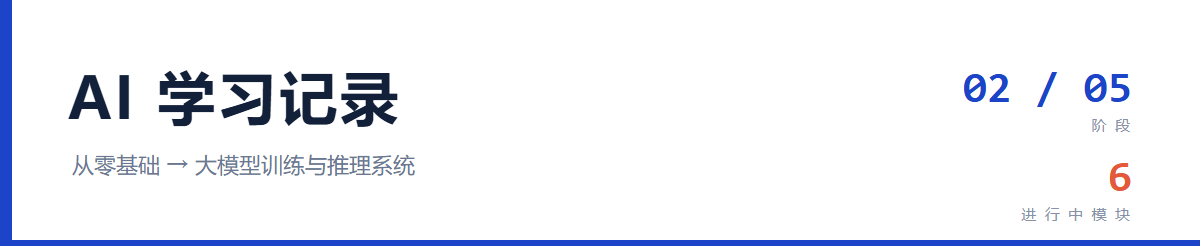
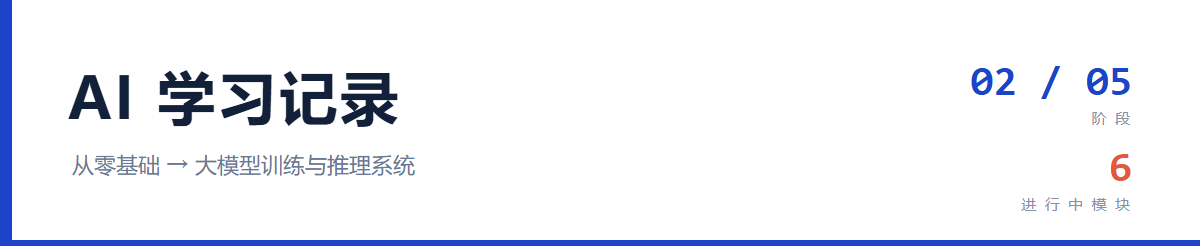
README 加📅时间线（按日期汇总所有笔记）；脚本修复渲染路径与轮询

diff --git a/tools/readme_visuals.py b/tools/readme_visuals.py
@@ -4,7 +4,7 @@
 用法：  python tools/readme_visuals.py
 改标题/数字：改下面 CFG 即可，不用重画
 """
-import pathlib, re, shutil, subprocess, sys, tempfile
+import pathlib, re, shutil, subprocess, sys, tempfile, time
 from urllib.parse import quote
 
 CFG = {
@@ -17,6 +17,12 @@ BLUE, ORANGE, GREY = "#1B44C8", "#E4593A", "#c3cad6"
 ROOT = pathlib.Path(__file__).resolve().parent.parent
 
 def find_edge():
+    for p in ("/mnt/c/Program Files (x86)/Microsoft/Edge/Application/msedge.exe",
+              "/mnt/c/Program Files/Microsoft/Edge/Application/msedge.exe",
+              "C:\\Program Files (x86)\\Microsoft\\Edge\\Application\\msedge.exe",
+              "C:\\Program Files\\Microsoft\\Edge\\Application\\msedge.exe"):
+        if pathlib.Path(p).exists():
+            return p
     for n in ("msedge.exe", "microsoft-edge", "google-chrome", "chrome"):
         p = shutil.which(n)
         if p:
@@ -34,34 +40,59 @@ def to_win(p):
         return "C:\\" + s[7:].replace("/", "\\")
     return s.replace("/", "\\")
 
-def render(html, out_png, w, h):
-    edge = find_edge()
-    if not edge:
-        print("⚠ 找不到 Edge/Chrome，跳过渲染"); return False
-    tmp = pathlib.Path(tempfile.mkdtemp())
-    f = tmp / "x.html"; f.write_text(html, encoding="utf-8")
-    out_png.parent.mkdir(parents=True, exist_ok=True)
-    subprocess.run([edge, "--headless=new", "--disable-gpu", "--hide-scrollbars",
-                    f"--window-size={w},{h}", f"--screenshot={to_win(out_png)}",
-                    to_win(f)], capture_output=True)
-    print("✓", out_png.relative_to(ROOT), out_png.stat().st_size, "bytes")
-    return out_png.exists()
-
 def parse_rows(text):
     rows = []
     for line in text.splitlines():
         if not line.startswith("| ") or "`" not in line:
             continue
-        cells = [c.strip() for c in line.strip().strip("|").split("|")]
+        cells = [c.strip() for c in line.strip("|").split("|")]
         if len(cells) < 2:
             continue
-        name, st = cells[0], cells[1]
-        for mark, v, lab, col in (("✅",1.0,"已 掌 握",BLUE),
-                                  ("🟡",0.55,"进 行 中",ORANGE),
-                                  ("⬜",0.0,"未 开 始",GREY)):
+        if len(cells) >= 5:
+            cat, name, st = cells[0], cells[1], cells[2]
+        else:
+            cat, name, st = "", cells[0], cells[1]
+        for mark, v, lab, col in (("\u2705", 1.0, "\u5df2 \u638c \u63e1", BLUE),
+                                  ("\U0001f7e1", 0.55, "\u8fdb \u884c \u4e2d", ORANGE),
+                                  ("\u2b1c", 0.0, "\u672a \u5f00 \u59cb", GREY)):
             if mark in st:
-                rows.append((name, v, lab, col)); break
+                rows.append((name, v, lab, col, cat)); break
     return rows
+
+def workdir():
+    for cand in ("/mnt/c/temp/readme_visuals", str(pathlib.Path.home() / ".cache" / "readme_visuals")):
+        p = pathlib.Path(cand)
+        try:
+            p.mkdir(parents=True, exist_ok=True)
+            return p
+        except Exception:
+            pass
+    return pathlib.Path(tempfile.gettempdir())
+
+def win_path(p):
+    s = str(p)
+    if "/mnt/c/" in s or s.startswith("/mnt/"):
+        return s.replace("/mnt/c/", "C:\\").replace("/", "\\")
+    return s
+
+def render(html, out_png, w, h):
+    edge = find_edge()
+    if not edge:
+        print("⚠ 找不到 Edge/Chrome，跳过渲染"); return False
+    tmp = workdir()
+    f = tmp / "page.html"; f.write_text(html, encoding="utf-8")
+    shot = tmp / "page.png"
+    if shot.exists(): shot.unlink()
+    subprocess.run([edge, "--headless=new", "--no-sandbox", "--disable-gpu", "--hide-scrollbars",
+                    f"--window-size={w},{h}", "--screenshot=" + win_path(shot), win_path(f)],
+                   capture_output=True)
+    for _ in range(30):                     # Edge 写盘有延迟，轮询等一下
+        if shot.exists():
+            out_png.parent.mkdir(parents=True, exist_ok=True)
+            shutil.copy(shot, out_png)
+            return True
+        time.sleep(0.2)
+    return False
 
 def banner_html(c):
     return f'''<html><head><meta charset="utf-8"><style>
@@ -81,16 +112,25 @@ h1{{margin:0;padding:58px 0 0 68px;font-size:58px;letter-spacing:3px;color:#1220
 </div></body></html>'''
 
 def progress_html(rows):
-    h = 44 + 34 + 3 + 30 + len(rows) * 52 + 40
-    body = "".join(
-        f'<div class="row"><div class="nm">{n}</div><div class="track">'
-        f'<div class="fill" style="width:{v*520:.0f}px;background:{c}"></div></div>'
-        f'<div class="st">{lab}</div></div>' for n, v, lab, c in rows)
+    h = 44 + 34 + 3 + 30 + 40
+    parts, last = [], None
+    for n, v, lab, c, cat in rows:
+        if cat and cat != last:
+            parts.append(f'<div class="cat">{cat}</div>')
+            last = cat
+            h += 42
+        parts.append(
+            f'<div class="row"><div class="nm">{n}</div><div class="track">'
+            f'<div class="fill" style="width:{v*520:.0f}px;background:{c}"></div></div>'
+            f'<div class="st">{lab}</div></div>')
+        h += 52
+    body = "".join(parts)
     html = f'''<html><head><meta charset="utf-8"><style>
 html,body{{margin:0;padding:0;font-family:"Microsoft YaHei",sans-serif;background:#fff}}
 .wrap{{width:1180px;padding:44px 44px 36px}}
 .hd{{font-size:34px;font-weight:700;color:#12203a;letter-spacing:2px}}
 .rule{{height:3px;background:{BLUE};margin:18px 0 30px;width:120px}}
+.cat{{font-size:15px;color:#8792a8;letter-spacing:2px;margin:14px 0 8px;border-left:3px solid #c3cad6;padding-left:10px}}
 .row{{display:flex;align-items:center;height:52px}}
 .nm{{width:400px;font-size:21px;color:#26314a}}
 .track{{width:520px;height:18px;background:#eef1f6;border-radius:9px;overflow:hidden}}
@@ -139,6 +179,8 @@ def nav_block():
     for name, mds in scan_dirs():
         cell = " ｜ ".join(f"[{'README' if m == 'README.md' else m[:-3][9:]}]({name}{m})" for m in mds[:6])
         lines.append(f"| `{name}` | {cell} |")
+    lines.append(timeline_block())
+    lines.append(timeline_block())
     lines += ["", "[↑ 回到顶部](#top)", "", NAV_END]
     return "\n".join(lines)
 
@@ -213,5 +255,34 @@ def refresh_badges(c):
         t = "\n".join(out)
     rm.write_text(t, encoding="utf-8")
     print("✓ 徽章已刷新（可点击）")
+
+def all_notes():
+    """收集仓库里所有笔记：(日期, 目录, 文件名)"""
+    out = []
+    for d in sorted(ROOT.iterdir()):
+        if not d.is_dir() or d.name in ("assets", "tools", ".git"):
+            continue
+        for p in d.glob("*.md"):
+            if p.name == "README.md":
+                continue
+            m = re.match(r"(\d{8})_(.+)\.md$", p.name)
+            if m:
+                out.append((m.group(1), d.name, p.name, m.group(2)))
+    return sorted(out, reverse=True)
+
+def timeline_block(limit=25):
+    ns = all_notes()
+    if not ns:
+        return ""
+    lines = ["", '<a id="timeline"></a>', "", "## 📅 时间线", "",
+             "| 日期 | 位置 | 笔记 |", "|---|---|---|"]
+    for day, d, f, title in ns[:limit]:
+        date = f"{day[:4]}-{day[4:6]}-{day[6:]}"
+        lines.append(f"| {date} | `{d}/` | [{title}]({d}/{f}) |")
+    if len(ns) > limit:
+        lines.append(f"| … |  | 共 {len(ns)} 篇 |")
+    lines += ["", "[↑ 回到顶部](#top)"]
+    return "\n".join(lines)
+
 if __name__ == "__main__":
     main()

diff --git a/README.md b/README.md
@@ -34,7 +34,42 @@
 | `02-transformer/` | [README](02-transformer/README.md) |
 | `03-database/` | [README](03-database/README.md) |
 | `04-systems/` | [README](04-systems/README.md) |
+| `05-practice/` | [README](05-practice/README.md) |
 | `notes/` | [Jev与System-One模型](notes/20260921_Jev与System-One模型.md) ｜ [KV-Cache](notes/20260921_KV-Cache.md) ｜ [Web-Mining（网络数据挖掘）](notes/20260921_Web-Mining（网络数据挖掘）.md) ｜ [论文_Dont-Mask-the-Environment](notes/20260921_论文_Dont-Mask-the-Environment.md) ｜ [推理负载与梯度检查点](notes/20260922_推理负载与梯度检查点.md) ｜ [深度学习前置知识清单](notes/20260922_深度学习前置知识清单.md) |
+
+<a id="timeline"></a>
+
+## 📅 时间线
+
+| 日期 | 位置 | 笔记 |
+|---|---|---|
+| 2026-09-23 | `00-setup/` | [云GPU上手清单](00-setup/20260923_云GPU上手清单.md) |
+| 2026-09-22 | `notes/` | [深度学习前置知识清单](notes/20260922_深度学习前置知识清单.md) |
+| 2026-09-22 | `notes/` | [推理负载与梯度检查点](notes/20260922_推理负载与梯度检查点.md) |
+| 2026-09-21 | `notes/` | [论文_Dont-Mask-the-Environment](notes/20260921_论文_Dont-Mask-the-Environment.md) |
+| 2026-09-21 | `notes/` | [Web-Mining（网络数据挖掘）](notes/20260921_Web-Mining（网络数据挖掘）.md) |
+| 2026-09-21 | `notes/` | [KV-Cache](notes/20260921_KV-Cache.md) |
+| 2026-09-21 | `notes/` | [Jev与System-One模型](notes/20260921_Jev与System-One模型.md) |
+| 2026-09-21 | `00-setup/` | [环境清单](00-setup/20260921_环境清单.md) |
+
+[↑ 回到顶部](#top)
+
+<a id="timeline"></a>
+
+## 📅 时间线
+
+| 日期 | 位置 | 笔记 |
+|---|---|---|
+| 2026-09-23 | `00-setup/` | [云GPU上手清单](00-setup/20260923_云GPU上手清单.md) |
+| 2026-09-22 | `notes/` | [深度学习前置知识清单](notes/20260922_深度学习前置知识清单.md) |
+| 2026-09-22 | `notes/` | [推理负载与梯度检查点](notes/20260922_推理负载与梯度检查点.md) |
+| 2026-09-21 | `notes/` | [论文_Dont-Mask-the-Environment](notes/20260921_论文_Dont-Mask-the-Environment.md) |
+| 2026-09-21 | `notes/` | [Web-Mining（网络数据挖掘）](notes/20260921_Web-Mining（网络数据挖掘）.md) |
+| 2026-09-21 | `notes/` | [KV-Cache](notes/20260921_KV-Cache.md) |
+| 2026-09-21 | `notes/` | [Jev与System-One模型](notes/20260921_Jev与System-One模型.md) |
+| 2026-09-21 | `00-setup/` | [环境清单](00-setup/20260921_环境清单.md) |
+
+[↑ 回到顶部](#top)
 
 [↑ 回到顶部](#top)
 
